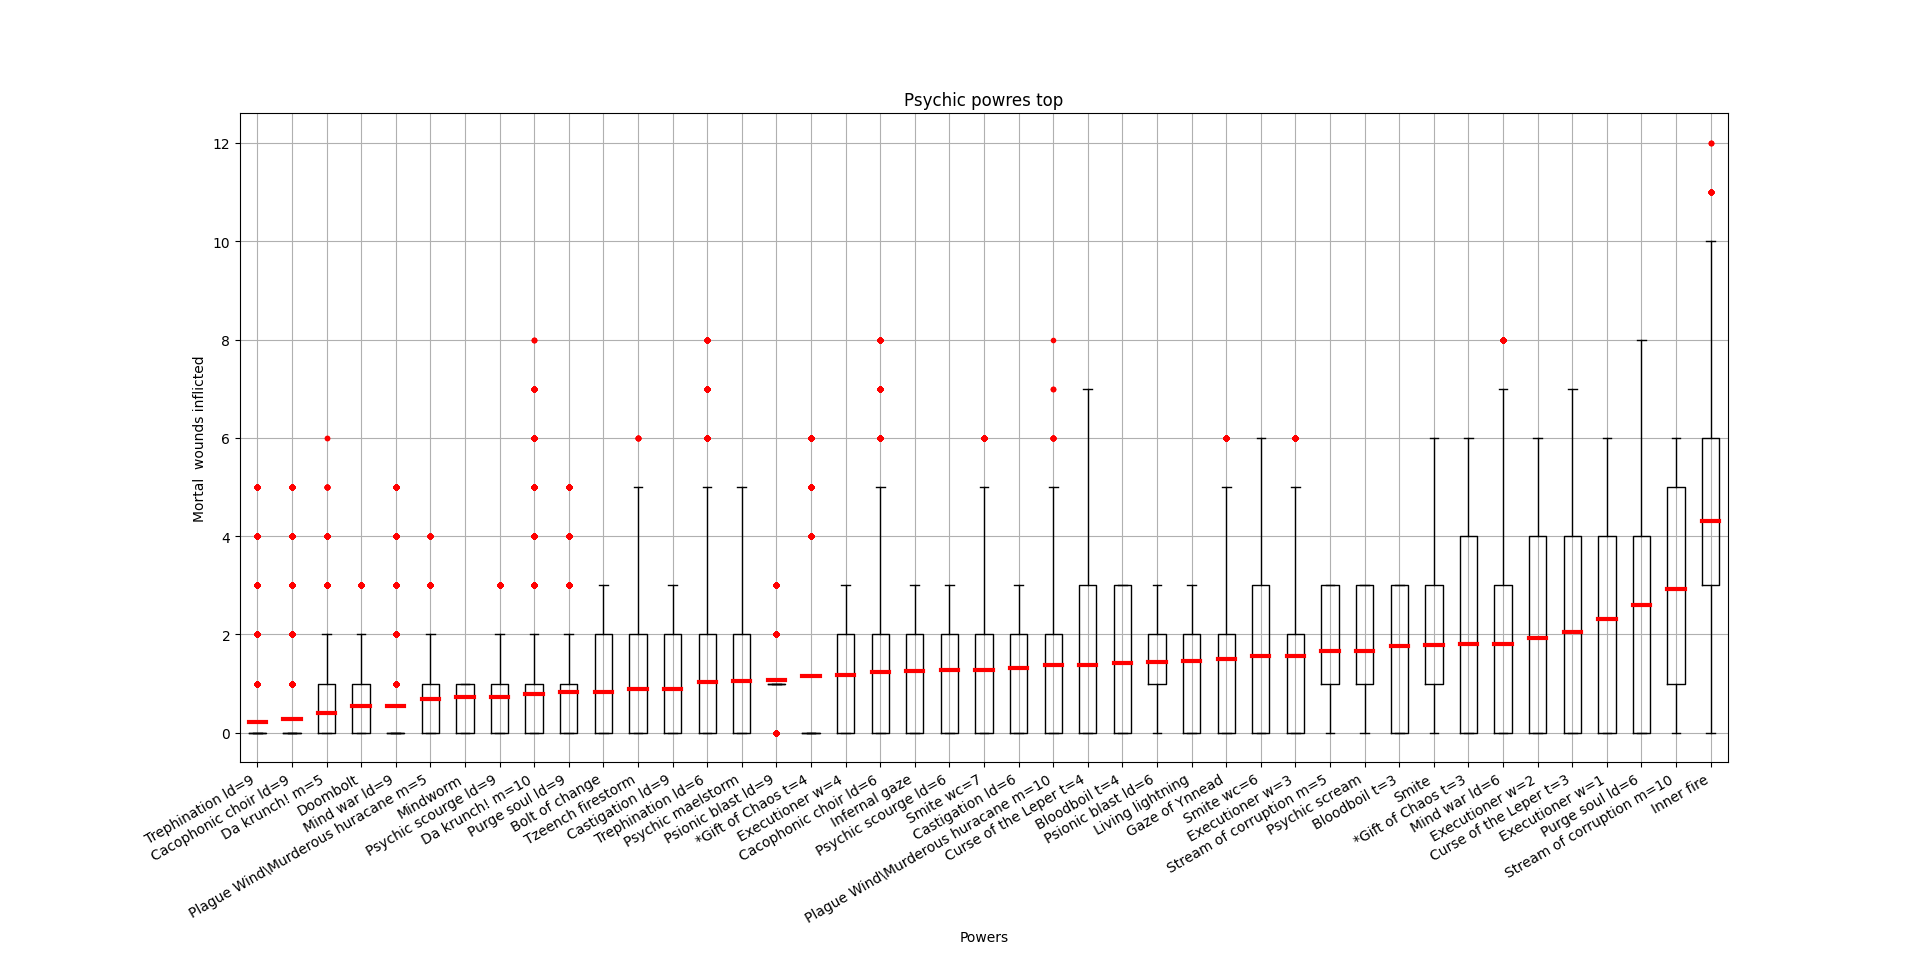
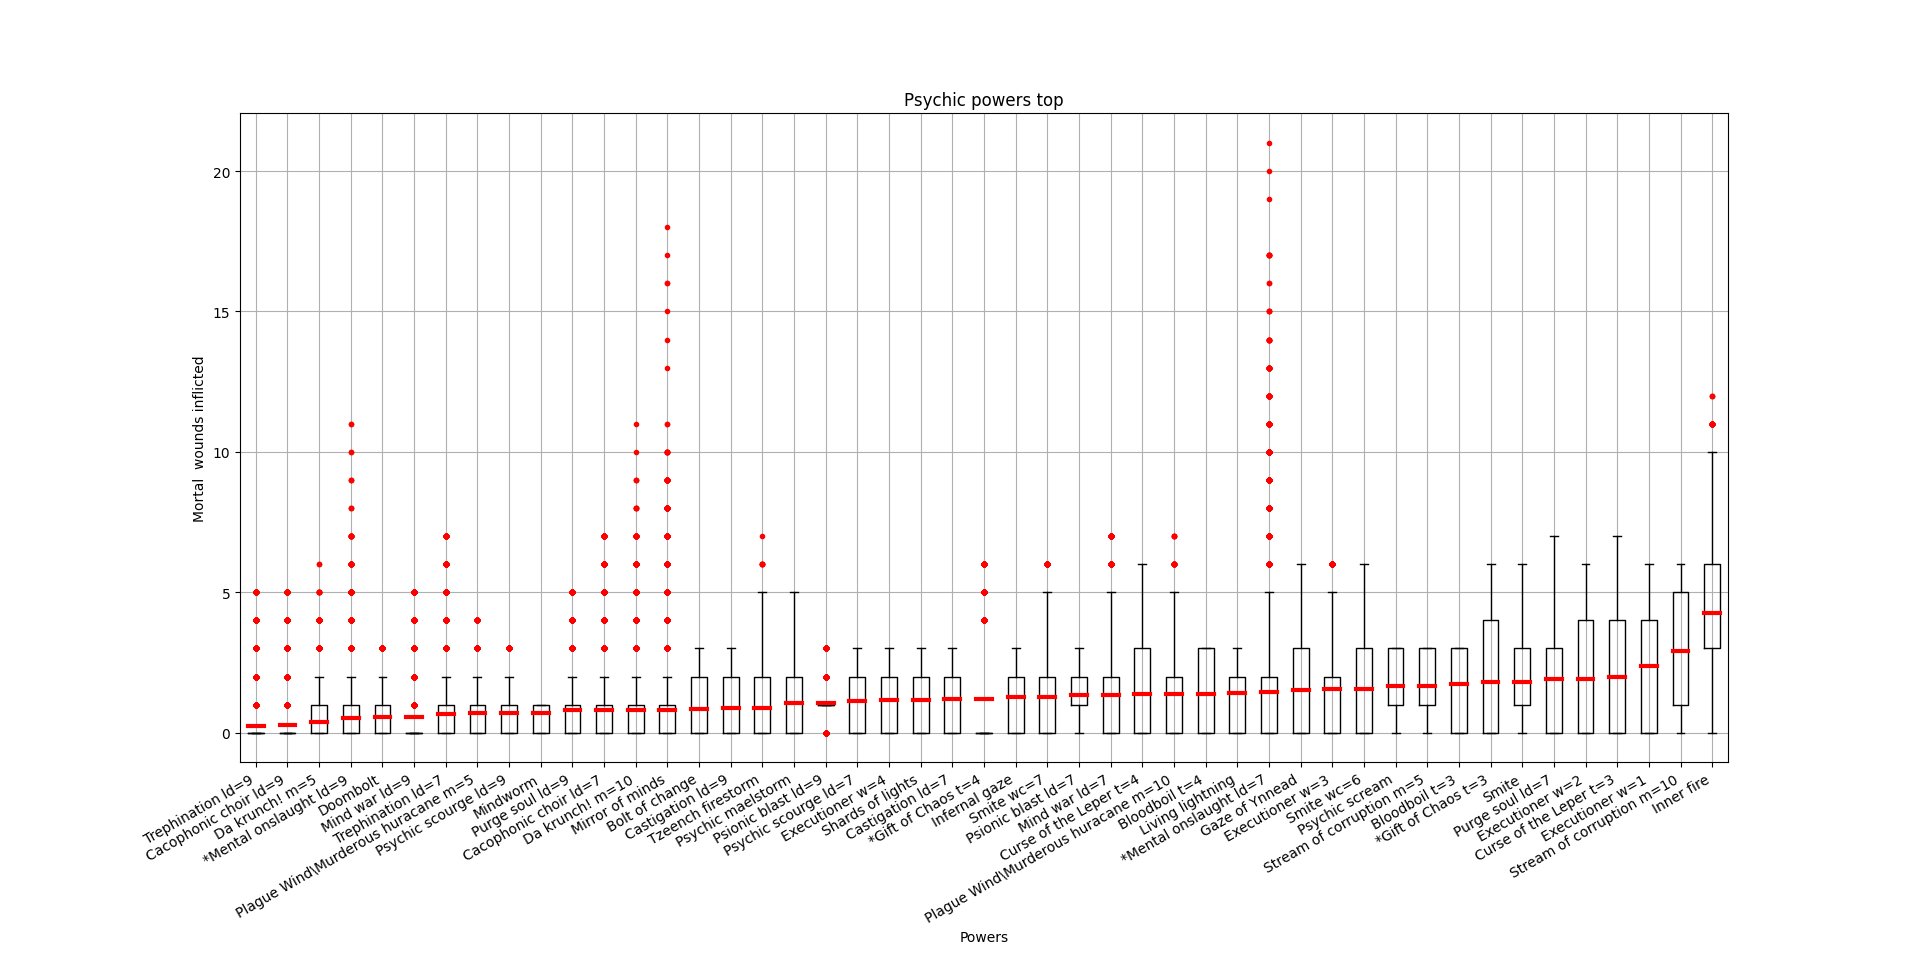
psipowers done

diff --git a/src/psi_powers_top.py b/src/psi_powers_top.py
@@ -44,13 +44,13 @@ SW, Jaws, wc7, 2d6 - Move = mortals
 +Eld, Mind War, wc7, d6+LD - d6_Ld = mortals
 +Eld, Executioner, wc7, d3, if model slain + d3
 
-Harl, Mirror of Minds, wc7, bith roll d6, if >= mortal, repeat until < or destroyed
-Harl, Shards of lights wc7, d3
++Harl, Mirror of Minds, wc7, bith roll d6, if >= mortal, repeat until < or destroyed
++Harl, Shards of lights wc7, d3
 
 +Innary, Gaze of Ynnead, wc6, d6: 1- mortal, 2-5 - d3, 6 - d6
 
 +Gen, Psionic Blast, wc5, 2d6 < Ld - 1 mortal, >= LD - d3
-Gen, Mental Onslaught, wc6, d6+Ld > d6+Ld - mortal, repeat until 6 or =<
++Gen, Mental Onslaught, wc6, d6+Ld > d6+Ld - mortal, repeat until 6 or =<
 '''
 
 import numpy as np
@@ -224,6 +224,28 @@ class Inner_fire(Psychic_power):
                 if ac_core.d6() > 2:
                     d+=1
         return d
+
+class Mirror_of_minds(Psychic_power):
+    def __init__(self):
+        Psychic_power.__init__(self, 'Mirror of minds', 7)
+        
+    def get_damage(self, wc = None, ld = None, m = None, w = None, t = None):        
+        pt1, pt2 = self.cast(wc)
+        d = 0
+        if pt1:
+            while True:
+                r1 = ac_core.d6()
+                r2 = ac_core.d6()
+                if r1 >= r2:
+                    d+=1
+                else:
+                    break
+        return d
+    
+class Shards_of_lights(JustD3):
+    def __init__(self):
+        JustD3.__init__(self, 'Shards of lights', 7)
+                
 
 #
 # POWERS DEPENDED ON MODEL WOUND CHARACTERISTIC
@@ -476,6 +498,29 @@ class Psionic_blast(Psychic_power):
                 d = ac_core.d3()
         return d
         
+class Mental_onslaught(Psychic_power):
+    def __init__(self):
+        Psychic_power.__init__(self, '*Mental onslaught', 6)
+        
+    def get_damage(self, wc = None, ld = None, m = None, w = None, t = None):        
+        if ld is None:
+            print("Error! Provide Ld for {} power!".format(self.name))
+        pt1, pt2 = self.cast(wc)
+        d = 0
+        if pt1:
+            while True:
+                r1 = ac_core.d6() + 9
+                r2 = ac_core.d6()
+                if r2 == 6:
+                    break
+                r2 += ld
+                if r1 > r2:
+                    d+=1
+                else:
+                    break
+        return d
+                
+        
 if __name__ == '__main__' :
     
     all_powers = {}
@@ -484,16 +529,11 @@ if __name__ == '__main__' :
         (d, l) = results        
         all_powers[l] = d
     
-    ld_powers = {}
-    lds = [5,6,7,8,9,10]
-    def add_ld_power( results ):
-        (d, l) = results
-        ld_powers[l] = d
-    
     smite = Smite()    
     add_power( smite.test_power() )
     add_power( smite.test_power(wc = 6) )
     add_power( smite.test_power(wc = 7) )
+    
     infernal_gaze = Infernal_gaze()
     add_power( infernal_gaze.test_power() )
     
@@ -530,100 +570,172 @@ if __name__ == '__main__' :
     add_power( e.test_power(w = 3) )
     add_power( e.test_power(w = 4) )
     
+    sof = Shards_of_lights()
+    add_power( sof.test_power() )
+    
+    mom = Mirror_of_minds()
+    add_power( mom.test_power() )
+    
+    # models
+    
+    m_powers = {}
+    ms = [3,4,5,6,7,8,9,10,11,12,13,14,15]
+    def add_m_power( power ):
+        m_powers[power.name] = []
+        for m in ms:
+            data, _ = power.test_power(m = m)
+            m_powers[power.name].append(np.mean(data))
+    
     pw = Plague_wind()
     add_power( pw.test_power(m = 5) )
     add_power( pw.test_power(m = 10) )
+    add_m_power(pw)
     
     dk = Da_krunch()
     add_power( dk.test_power(m = 5) )
     add_power( dk.test_power(m = 10) )
+    add_m_power(dk)
     
     soc = Stream_of_corruption()
     add_power( soc.test_power(m = 5) )
     add_power( soc.test_power(m = 10) )
+    add_m_power(soc)    
+    
+    # toughnes
+    t_powers = {}
+    ts = [3,4,5,6,7,8]
+    def add_t_power( power ):
+        t_powers[power.name] = []
+        for t in ts:
+            data, _ = power.test_power(t = t)
+            t_powers[power.name].append(np.mean(data))
     
     cotl = Curse_of_the_Leper()
     add_power( cotl.test_power(t = 3) )
     add_power( cotl.test_power(t = 4) )
+    add_t_power( cotl )
     
     goc = Gift_of_Chaos()
     add_power( goc.test_power(t = 3) )
     add_power( goc.test_power(t = 4) )
+    add_t_power( goc )
     
     bb = Bloodboil()
     add_power( bb.test_power(t = 3) )
     add_power( bb.test_power(t = 4) )
+    add_t_power( bb )
     
     # LD
+    
+    ld_powers = {}
+    lds = [5,6,7,8,9,10]
+    def add_ld_power( power ):        
+        ld_powers[power.name] = []
+        for ld in lds:
+            data, _ = power.test_power(ld = ld)
+            ld_powers[power.name].append(np.mean(data))
+            
+    
     ps = Purge_soul()
-    add_power( ps.test_power(ld = 6) )
-    add_power( ps.test_power(ld = 9) )
-    for ld in lds:
-        add_ld_power( ps.test_power(ld = ld))
+    add_power( ps.test_power(ld = 7) )
+    add_power( ps.test_power(ld = 9) )        
+    add_ld_power( ps )
     
     mw = Mind_war()
-    add_power( mw.test_power(ld = 6) )
+    add_power( mw.test_power(ld = 7) )
     add_power( mw.test_power(ld = 9) )
-    for ld in lds:
-        add_ld_power( mw.test_power(ld = ld))
+    add_ld_power( mw )
     
     cc = Cacophonic_choir()
-    add_power( cc.test_power(ld = 6) )
+    add_power( cc.test_power(ld = 7) )
     add_power( cc.test_power(ld = 9) )
-    for ld in lds:
-        add_ld_power( cc.test_power(ld = ld))
+    add_ld_power( cc )
     
     t = Trephination()
-    add_power( t.test_power(ld = 6) )
+    add_power( t.test_power(ld = 7) )
     add_power( t.test_power(ld = 9) )
-    for ld in lds:
-        add_ld_power( t.test_power(ld = ld))
+    add_ld_power( t )
     
     c = Castigation()
-    add_power( c.test_power(ld = 6) )
+    add_power( c.test_power(ld = 7) )
     add_power( c.test_power(ld = 9) )
-    for ld in lds:
-        add_ld_power( c.test_power(ld = ld))
+    add_ld_power( c )
     
     ps_ = Psychic_scourge()
-    add_power( ps_.test_power(ld = 6) )
+    add_power( ps_.test_power(ld = 7) )
     add_power( ps_.test_power(ld = 9) )
-    for ld in lds:
-        add_ld_power( ps_.test_power(ld = ld))
+    add_ld_power( ps_ )
     
     pb = Psionic_blast()
-    add_power( pb.test_power(ld = 6) )
+    add_power( pb.test_power(ld = 7) )
     add_power( pb.test_power(ld = 9) )
-    for ld in lds:
-        add_ld_power( pb.test_power(ld = ld))
+    add_ld_power( pb )
         
+    mo = Mental_onslaught()
+    add_power( mo.test_power(ld = 7) )
+    add_power( mo.test_power(ld = 9) )
+    add_ld_power( mo )
     
     # all
     fig1, ax1 = plt.subplots()    
     all_powers = {k: v for k, v in sorted(all_powers.items(), key=lambda item: np.mean(item[1]))}    
-    ac_core.boxplot(list(all_powers.values()), ax1, list(all_powers.keys()), rotation = 90)
+    #ac_core.boxplot(list(all_powers.values()), ax1, list(all_powers.keys()), rotation = 90)
+    ac_core.boxplot([all_powers['Tzeench firestorm']], ax1, ['Tzeench firestorm'], rotation = 90)
     plt.title('Psychic powers top')    
     plt.ylabel("Mortal  wounds inflicted")
-    plt.xlabel("Powers")
+    plt.xlabel("Powers")    
     fig1.autofmt_xdate()
     plt.grid()
     plt.show()
     
     # ld
     fig1, ax1 = plt.subplots()    
-    for i in range(7):
-        list(ld_powers.values())[i*len(lds):(i+1)*len(lds)]
-        plt.plot(lds, , label=list(ld_powers.keys())[0][0:-4] )
+    for power_name, data in ld_powers.items():
+        plt.plot(lds, data, ".-", label = power_name)
+    plt.ylabel("Mortal  wounds inflicted")
+    plt.xlabel("Target leadership")
+    plt.title("Psipowers depending on leadership")
     plt.grid()
+    plt.legend()
     plt.show()
     
+    # m
     fig1, ax1 = plt.subplots()    
-    ld_powers = {k: v for k, v in sorted(ld_powers.items(), key=lambda item: np.mean(item[1]))}    
-    ac_core.boxplot(list(ld_powers.values()), ax1, list(ld_powers.keys()), rotation = 90)
-    plt.title('Psychic powers (leadership) top')    
+    for power_name, data in m_powers.items():
+        plt.plot(ms, data, ".-", label = power_name)
     plt.ylabel("Mortal  wounds inflicted")
-    plt.xlabel("Powers")
-    fig1.autofmt_xdate()
+    plt.xlabel("Models in target unit")
+    plt.title("Psipowers depending on number of models in unit")
+    plt.xticks(ms)
     plt.grid()
+    plt.legend()
     plt.show()
+    
+    # m
+    fig1, ax1 = plt.subplots()    
+    for power_name, data in t_powers.items():
+        plt.plot(ts, data, ".-", label = power_name)
+    plt.ylabel("Mortal  wounds inflicted")
+    plt.xlabel("Target toughness")
+    plt.title("Psipowers depending on toughness")
+    plt.xticks(ts)
+    plt.grid()
+    plt.legend()
+    plt.show()
+
+    #for i in range(7):
+        #list(ld_powers.values())[i*len(lds):(i+1)*len(lds)]
+        #plt.plot(lds, , label=list(ld_powers.keys())[0][0:-4] )
+    #plt.grid()
+    #plt.show()
+    
+    #fig1, ax1 = plt.subplots()    
+    #ld_powers = {k: v for k, v in sorted(ld_powers.items(), key=lambda item: np.mean(item[1]))}    
+    #ac_core.boxplot(list(ld_powers.values()), ax1, list(ld_powers.keys()), rotation = 90)
+    #plt.title('Psychic powers (leadership) top')    
+    #plt.ylabel("Mortal  wounds inflicted")
+    #plt.xlabel("Powers")
+    #fig1.autofmt_xdate()
+    #plt.grid()
+    #plt.show()
 
